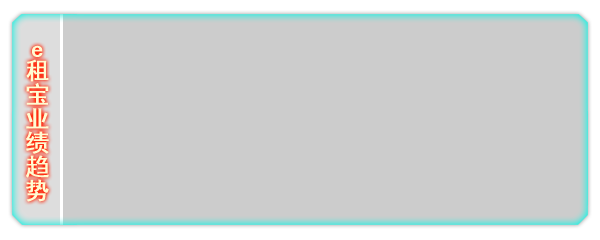
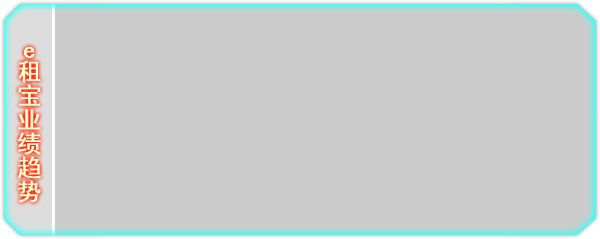
管理驾驶舱资源调整。

Changed region(s): [[0.0, 0.0, 1.0, 0.9958]]

diff --git a/source/7.5.10-eai-cockpit-scene/FEaiCockpitModuleNoticeSnapshot.js b/source/7.5.10-eai-cockpit-scene/FEaiCockpitModuleNoticeSnapshot.js
@@ -81,7 +81,7 @@ MO.FEaiCockpitModuleNoticeSnapshot_construct = function FEaiCockpitModuleNoticeS
 MO.FEaiCockpitModuleNoticeSnapshot_setup = function FEaiCockpitModuleNoticeSnapshot_setup(){
    var o = this;
    // 加载背景图
-   var bgImage = o._bgImage = MO.Console.find(MO.FImageConsole).load('{eai.resource}/cockpit/notice/bg.png');
+   var bgImage = o._bgImage = MO.Console.find(MO.FImageConsole).load('{eai.resource}/cockpit/notice/ground.png');
    bgImage.addLoadListener(o, o.onImageLoad);
    // 创建控件
    var listBox = o._noticeListBox = MO.Class.create(MO.FGuiListBox);
